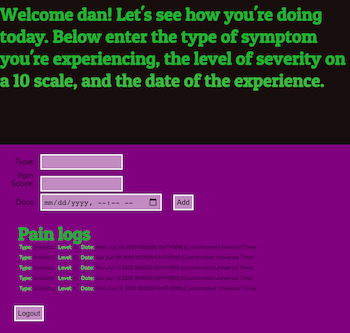
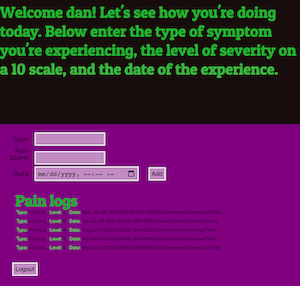
formatting looking pretty good

diff --git a/src/contents/Main.js b/src/contents/Main.js
@@ -48,16 +48,9 @@ class Main extends Component {
         <Section
             title=<h1 className="title3">absoluteJAMS</h1>
             skillone=<div className="sitedescription">
-            <div className="column" >This is a full stack web forum built with Ruby on Rails using the devise gem and postgresQL. Commenting and likes with full CRUD functionality make an ideal environment for music discussion.</div>
+            <div className="column" >This is a full stack web forum built with Ruby on Rails using the devise gem and postgresQL. Commenting and likes with full CRUD functionality make an ideal environment for music discussion.
+            Feature: User Authentication, Posts, Likes, Comments, Tag Sorting.</div>
             <div className="column">
-            <p className="features">Features:</p>
-            <ul>
-            <li className="descriptionitems">User Authentication</li>
-            <li className="descriptionitems">Posts</li>
-            <li className="descriptionitems">Likes</li>
-            <li className="descriptionitems">Comments</li>
-            <li className="descriptionitems">Tag Sorting</li>
-            </ul>
             </div>
             <div className="column">
             <p className="features">Technoligies Used:</p>
@@ -86,14 +79,8 @@ class Main extends Component {
         <Section
           title=<h1 className="title3">Gigglelibs</h1>
           skillone=<div className="sitedescription">
-          <div className="column">Gigglelibs is a fun mad lib generator for bored children and adults alike. This site employed an Express with Mongoose backend powerered by Node.js, with bcrypt, CORS, and MERN stack to integrate the front end. The front end was built in React with Node.js, HTML, React Bootstrap, CSS, and Javascript all integrated. Express-session was utilized for authentication allowing users to sign up, log in, and log out.</div>
+          <div className="column">Gigglelibs is a fun mad lib generator for bored children and adults alike. This site employed an Express with Mongoose backend powerered by Node.js, with bcrypt, CORS, and MERN stack to integrate the front end. The front end was built in React with Node.js, HTML, React Bootstrap, CSS, and Javascript all integrated. Express-session was utilized for authentication allowing users to sign up, log in, and log out. Features include: User Authentication, Madlib Generator, Gigglelib database.</div>
           <div className="column">
-          <p className="features">Features:</p>
-            <ul>
-            <li className="descriptionitems">User Authentication</li>
-            <li className="descriptionitems">MadLib Generator</li>
-            <li className="descriptionitems">Gigglelib Database</li>
-            </ul>
             </div>
             <div className="column">
             <p className="features">Technoligies Used:</p>
@@ -126,16 +113,7 @@ class Main extends Component {
         <Section
           title=<h1 className="title3">Your Release Tracker</h1>
           skillone=<div className="sitedescription">
-          <div className="column">This app allows a user to keep track of when their favorite albums will be coming out. The API was built with Ruby on Rails and PostgresQL. Fake data provided by faker.  The back end connects to the client side with rack-cors. The front end was built in React</div>
-          <div className="column">
-           <p className="features">Features:</p>
-            <ul>
-            <li className="descriptionitems">Add Releases</li>
-            <li className="descriptionitems">Edit Releases</li>
-            <li className="descriptionitems">Delete Releases</li>
-            <li className="descriptionitems">Embeded New Release Spotify Player</li>
-            </ul>
-            </div>
+          <div className="column">This app allows a user to keep track of when their favorite albums will be coming out. The API was built with Ruby on Rails and PostgresQL. Fake data provided by faker.  The back end connects to the client side with rack-cors. The front end was built in React. Features include: Add releases, Edit Releases, Delete Releases, Embedded new release spotify player. </div>
             <div className="column">
             <p className="features">Technoligies Used:</p>
             <ul>
@@ -167,16 +145,7 @@ class Main extends Component {
         <Section
           title=<h1 className="title3">Daily Pain Tracker</h1>
           skillone=<div className="sitedescription">
-          <div className="column">This is an app designed to allow users to easily record how a specific pain or ailment is progressing over time.  Ideally this would help doctors looking for more accurate self-reporting.  This is an MVC format app with full CRUD functinality.  The database was created with MongoDB.  Authentication was created with bcrypt and express-session to allow users to sign up, sign in, and log out, with sole access to their private data.</div>
-          <div className ="column">
-          <p className="features">Features:</p>
-           <ul>
-            <li className="descriptionitems">User Authentication</li>
-            <li className="descriptionitems">Private Pain Level Tracker</li>
-            <li className="descriptionitems">Date and Time Form Inputs</li>
-            <li className="descriptionitems">Large Text and Features for Accessibility</li>
-            </ul>
-            </div>
+          <div className="column">This is an app designed to allow users to easily record how a specific pain or ailment is progressing over time.  Ideally this would help doctors looking for more accurate self-reporting.  This is an MVC format app with full CRUD functinality.  The database was created with MongoDB.  Authentication was created with bcrypt and express-session to allow users to sign up, sign in, and log out, with sole access to their private data. Features include: User Authentication, Private Pain level tracker, datae and time form inputes, large text for accessibility.</div>
             <div className="column">
             <p className="features">Technoligies Used:</p>
             <ul>
@@ -190,7 +159,7 @@ class Main extends Component {
             </div>
           dark={true}
           id="dailypaintracker"
-          skilltwo=<div className="paintrackerss"><img className="paintrackerss" src={PaintrackerSS}/><img className="paintrackerss2" src={PaintrackerSS2}/></div>
+          skilltwo=<img className="paintrackerss" src={PaintrackerSS}/>
           skillthree=<div className="demolinks"><a href="https://fierce-scrubland-02207.herokuapp.com//">
             <img alt="herokudemoicon" src={herokudemoicon}/></a>
             <a href="https://github.com/dmcmcmahon714/seir-projects2">
@@ -201,15 +170,7 @@ class Main extends Component {
         <Section
           title=<h1 className="title3">Chicago Tow Find</h1>
           skillone=<div className="sitedescription">
-          <div className="column">Chicago tow find is an html website that allows users to see if their car has been towed in Chicago on a given date.  The app is built with simple html, css, and javascript utilizing jquery.  The information is pulled from the official City of Chicago public API via AJAX request.</div>
-          <div className="column">
-          <p className="features">Features:</p>
-           <ul>
-            <li className="descriptionitems">Access to Chicago Public Database</li>
-            <li className="descriptionitems">Find Vehicle by Plate, Make, and Style</li>
-            <li className="descriptionitems">Current for Past 60 days</li>
-            </ul>
-            </div>
+          <div className="column">Chicago tow find is an html website that allows users to see if their car has been towed in Chicago on a given date.  The app is built with simple html, css, and javascript utilizing jquery.  The information is pulled from the official City of Chicago public API via AJAX request. Features include: Access to Chicago Public Database, Find vehicle by Palte, Make, and Style, Info Current for past 60 days.</div>
             <div className="column">
             <p className="features">Technoligies Used:</p>
             <ul className="jamstech">
@@ -223,7 +184,7 @@ class Main extends Component {
             </div>
           dark={true}
           id="chicagotowfind"
-          skilltwo=<img src={ChicagotowfindSS} alt="chitowfind"/>
+          skilltwo=<img className="towfind" src={ChicagotowfindSS} alt="chitowfind"/>
           skillfour=<div className="demolinks"><a href="https://dmcmcmahon714.github.io/Project-1//">
             <img alt="githubpagesicon" src={githubpagesicon}/></a>
             <a href="https://github.com/dmcmcmahon714/Project-1">

diff --git a/src/App.css b/src/App.css
@@ -398,16 +398,14 @@ p.skillssection {
 
 
 
-img.paintrackerss {
-  margin-top: 1em;
-  padding-right: 2em;
-
- 
-}
+img 
 
 div.paintrackerss {
   margin: 0 auto;
   margin-left: 0%;
+  display: flex;
+  float: right;
+
 }
 
 
@@ -425,18 +423,18 @@ p.backtotop {
 
 .column {
   float: left;
-  width: 33.33%;
+  width: 30%;
   text-align: justify;
   margin: 0 auto;
-  padding-bottom: 0;
+  padding-left: 12em;
   font-family: 'Khula', sans-serif;
   font-weight: bold;
 
 }
 
 .descriptionitems {
-  width: 75%;
-  margin-left: 9em;
+  width: 40%;
+  margin-left: 1em;
 }
 
 ul.jamstech {
@@ -452,14 +450,13 @@ ul.libstech {
 
 .sitedescription:after {
   content: "";
-  display: table;
-  clear: both;
+
+
 }
 
 p.features {
   margin: 0 auto;
   text-align: left;
-  padding-left: 9em;
   padding-bottom: .5em;
   font-weight: bold;
 }
@@ -515,6 +512,8 @@ div.paintrackerdescription {
   font-size: 12px;
   width: 75%;
   margin: 0 auto;
+  margin-top: 3em;
+  align-items: center;
 }
 
 ul.projectlinks {
@@ -532,3 +531,19 @@ ul.aboutlinks {
 p.aboutblurb {
   margin-top: 1.5em;
 }
+
+li.descriptionitems {
+  margin-left: .2em;
+  text: wrap;
+}
+
+img.paintrackerss {
+  margin: 0 auto;
+  margin-top: 0;
+  margin-right: 20em;
+  padding-left: 17em;
+  padding-top: 3em;
+  padding-bottom: 3em;
+}
+
+
